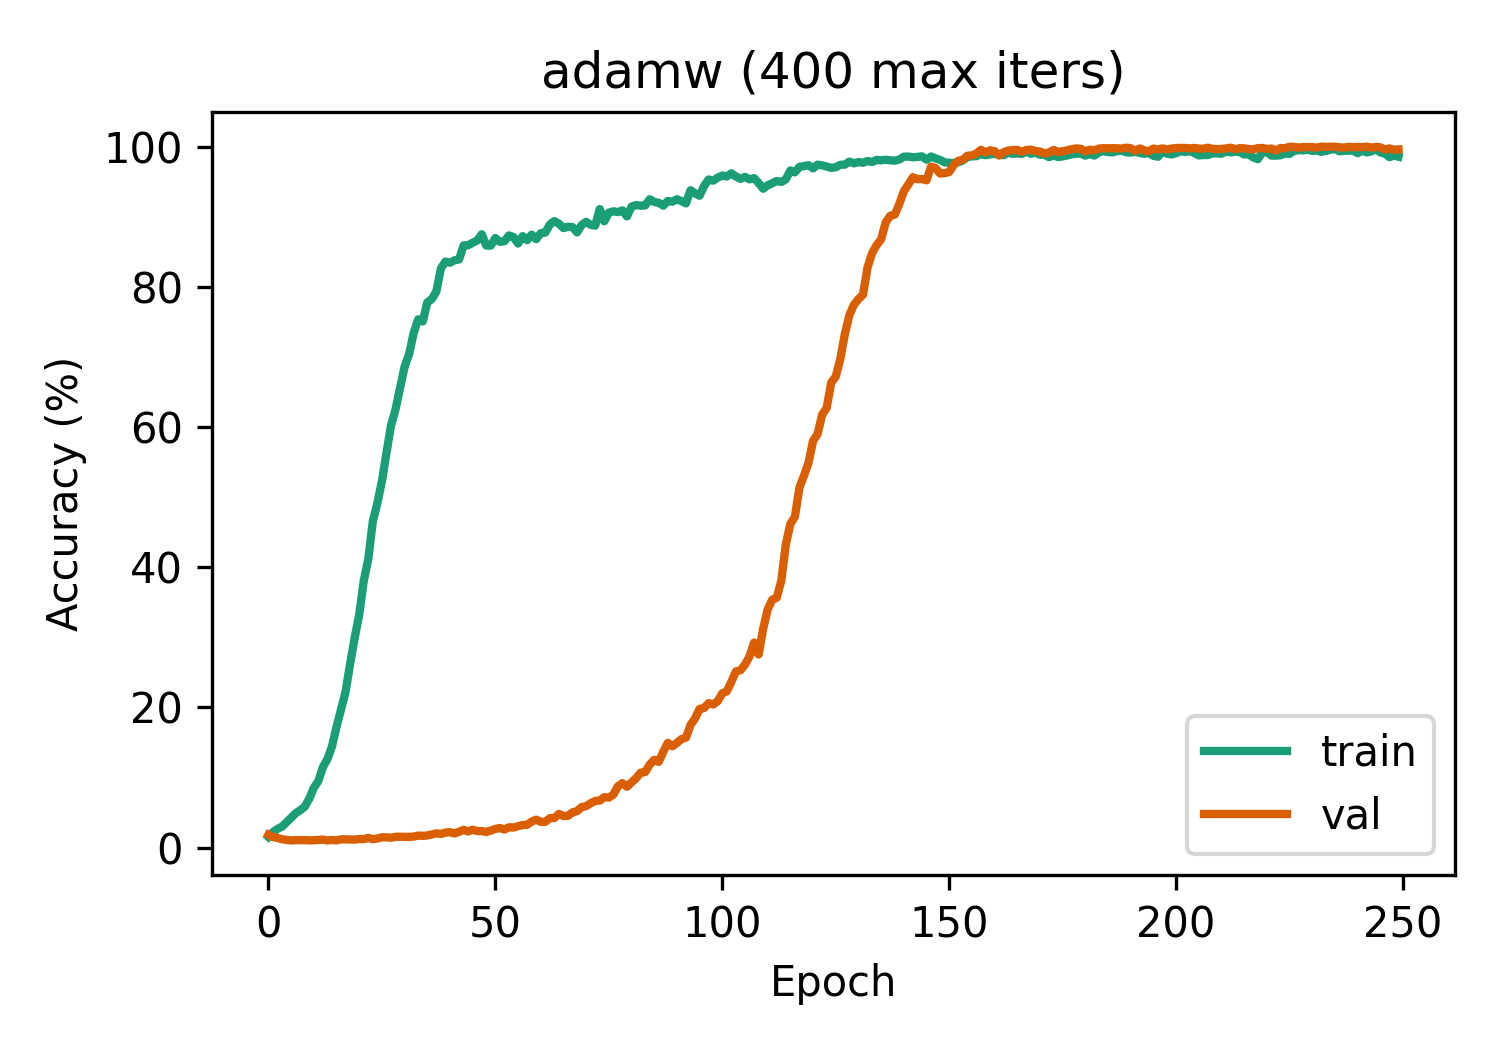
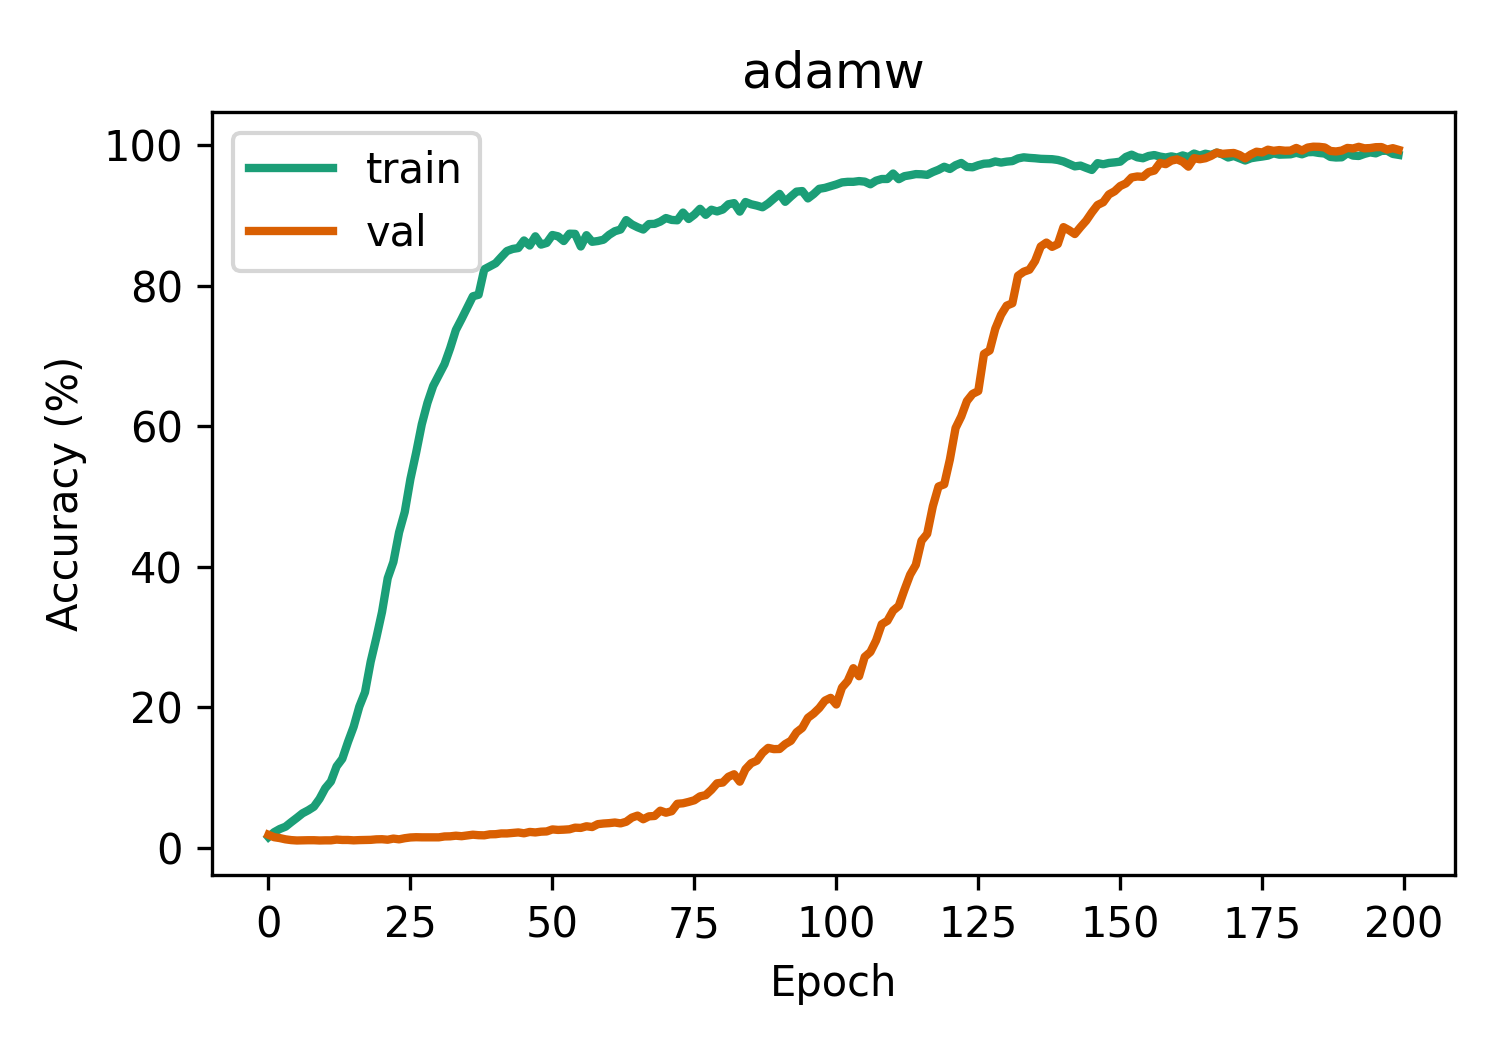
updates

diff --git a/main_opt_sweep.py b/main_opt_sweep.py
@@ -215,7 +215,7 @@ def main(args):
     ax.plot(np.array(net.val_acc_trace) * 100, label='val', color='#d95f02', lw=lw)
     ax.set_xlabel('Epoch')
     ax.set_ylabel('Accuracy (%)')
-    ax.set_title(args.optimizer + ' (400 max iters)')
+    ax.set_title(args.optimizer)
     ax.legend()
     fig.tight_layout()
     op_safe = args.op.replace('/', 'div').replace('*', 'mul').replace('+', 'add').replace('-', 'sub')
